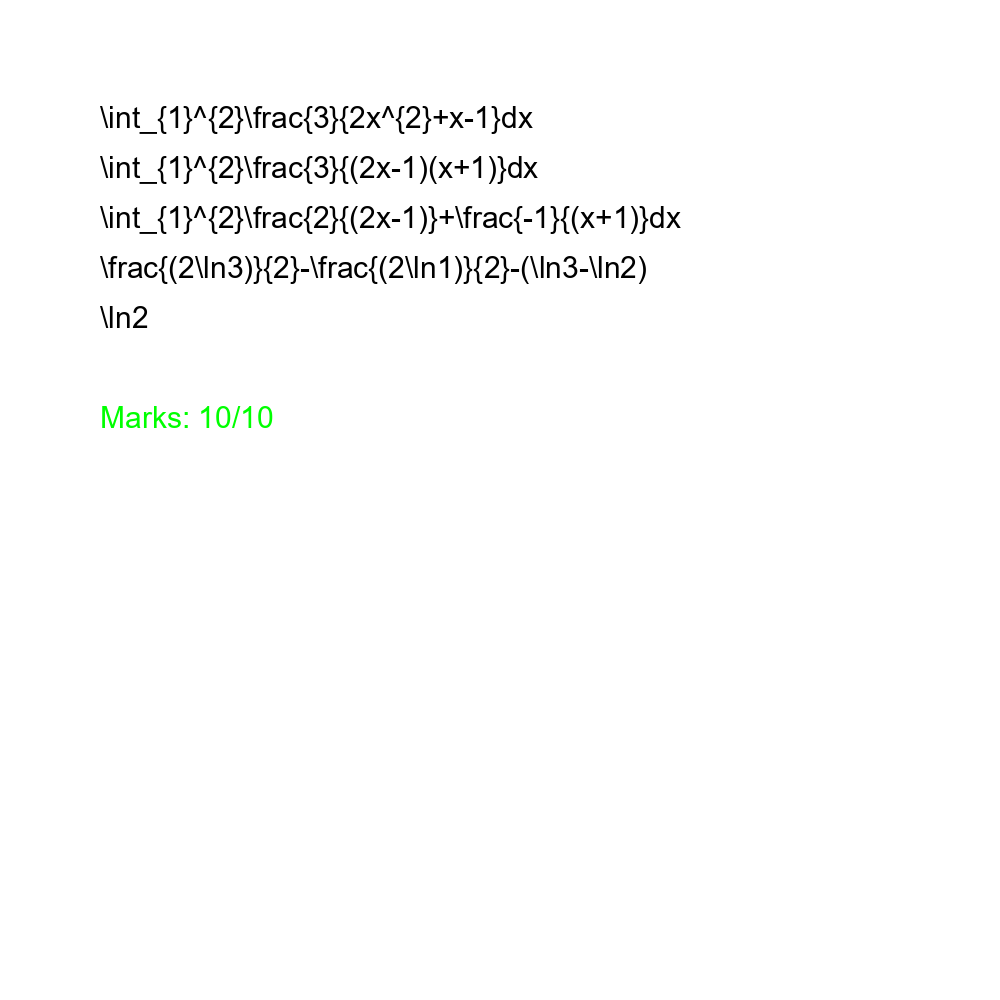
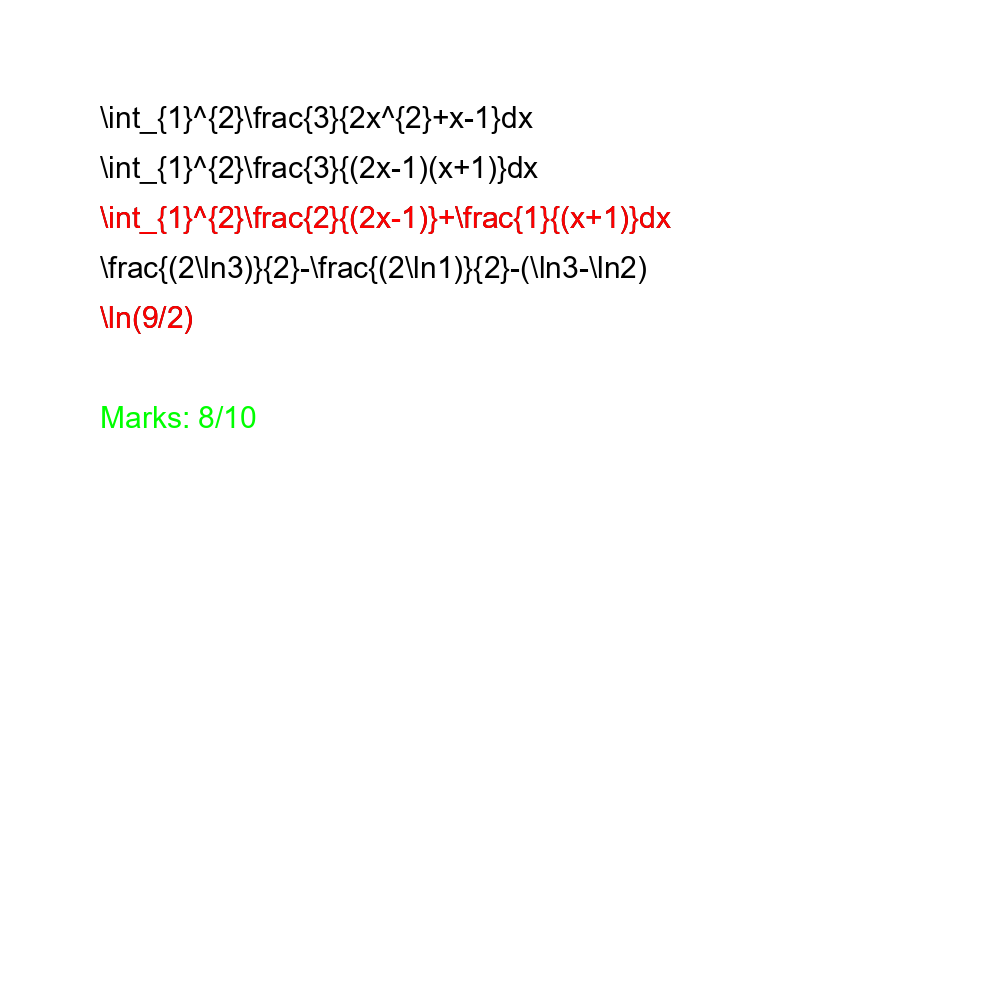
camera module fixed

Changed region(s): [[0.093, 0.186, 0.682, 0.248], [0.186, 0.403, 0.279, 0.434], [0.093, 0.31, 0.186, 0.341]]

diff --git a/app/app.py b/app/app.py
@@ -15,22 +15,33 @@ import matplotlib.pyplot as plt
 def open_camera():
     # Initialize webcam
     # cap = cv2.VideoCapture(0)
-    cap = cv2.VideoCapture("http://192.168.1.100:4747/video")
+    cap = cv2.VideoCapture("http://192.168.1.102:4747/video")
 
     # Capture an image when space key is pressed
     while True:
         ret, frame = cap.read()
         cv2.imshow("Image Capture", frame)
-        if cv2.waitKey(1) == ord(" "):
-            cv2.imwrite("app/images/captured_image.png", frame)
+        if cv2.waitKey(1) & 0xFF == ord(" "):
+            # get the last file name in app/images and set the new file name
+            files = os.listdir("app/images")
+            new_file = ""
+            # if the file does not exist, set the new file name to extracted_latex_1
+            if len(files) == 0:
+                new_file = "demo1"
+            else:
+                # get the last number in the file name and increase it by 1
+                last_file = files[-1]
+                last_number = int(last_file.split("demo")[-1].split(".")[0])
+                new_file = "demo" + str(last_number + 1)
+            cv2.imwrite("app/images/" + new_file + ".png", frame)
             break
 
     # Release webcam and close all windows
     cap.release()
     cv2.destroyAllWindows()
 
-    # Return captured image
-    return frame
+    # return the image path
+    return "app/images/" + new_file + ".png"
 
 
 def image_to_latex(image_path):
@@ -50,6 +61,9 @@ def image_to_latex(image_path):
 
     command = "mpx convert " + image_path + " app/gen/" + new_file + ".tex"
     os.system(command)
+
+    # clear the screen
+    os.system("cls")
 
     file_path = "app/gen/" + new_file + ".tex.zip"
     # rename the file
@@ -163,20 +177,20 @@ def output(splitted_equations, mistake_line_numbers, marks):
 # main function
 if __name__ == "__main__":
     # step 1: open camera
-    # image = open_camera()
+    # image_path = open_camera()
 
-    # step 2: preview image
-    # cv2.imshow("Image Preview", image)
-    # cv2.waitKey(0)
-    # cv2.destroyAllWindows()
+    # step 2: check the image
+    # if image_path == "":
+    #     print("No image! Please try again!")
+    #     exit()
 
     # step 3: image to latex
     # image_path = "app\images\demo1.png"
     # image_path = "app\images\demo2.png"
     # image_path = "app\images\demo3.png"
     # image_path = "app\images\demo4.png"
-    image_path = "app\images\demo5.png"
-    # image_path = "app\images\demo6.png"
+    # image_path = "app\images\demo5.png"
+    image_path = "app\images\demo6.png"
 
     latex_str = image_to_latex(image_path)
     # latex_str = r"\left.\begin{array}{c}{x^{2}+5x+6=0}\\{x^{2}+2x+3x-6=0}\\{x(x+2)+3(x+2)=0}\\{(x+2)(x-3)=0}\end{array}\right."

diff --git a/app/gen/extracted_latex_5.tex b/app/gen/extracted_latex_5.tex
@@ -1,0 +1,1 @@
+\[ \begin{array} { l } \int _ { 1 } ^ { 2 } \frac { 3 } { 2 x ^ { 2 } + x - 1 } d x \\ \int _ { 1 } ^ { 2 } \frac { 3 } { ( 2 x - 1 ) ( x + 1 ) } d x \\ \int _ { 1 } ^ { 2 } \frac { 2 } { ( 2 x - 1 ) } + \frac { 1 } { ( x + 1 ) } d x \\ \frac { ( 2 \ln 3 ) } { 2 } - \frac { ( 2 \ln 1 ) } { 2 } - ( \ln 3 - \ln 2 ) \\ \ln ( 9 / 2 ) \end{array} \]
